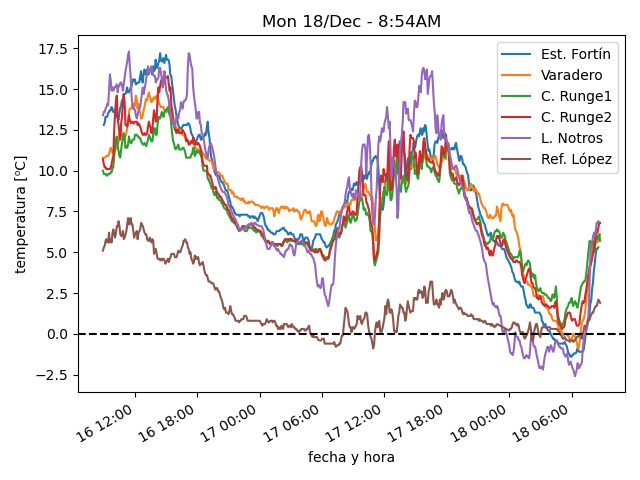
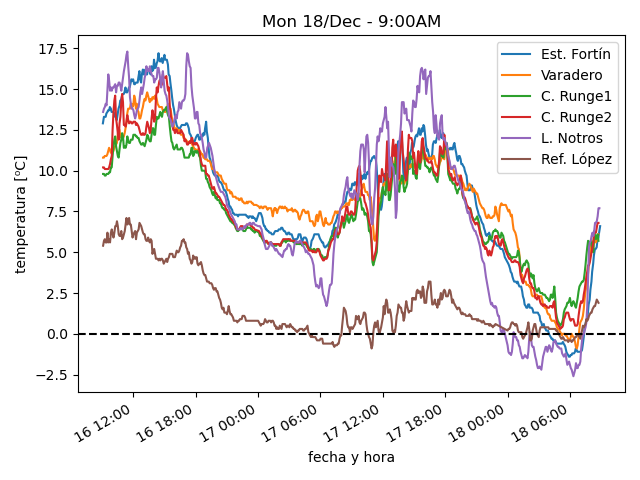
actualiza datos

diff --git a/estaciones/estacion1.html b/estaciones/estacion1.html
@@ -18,22 +18,22 @@
     </tr>
     <tr>
      <td class="stats_data">
-      8:34AM
+      8:54AM
      </td>
     </tr>
     <tr>
      <td class="stats_data">
-      5.3
+      6.6
      </td>
     </tr>
     <tr>
      <td class="stats_data">
-      0.1
+      0.8
      </td>
     </tr>
     <tr>
      <td class="stats_data">
-      69.3
+      66.7
      </td>
     </tr>
     <tr>
@@ -43,7 +43,7 @@
     </tr>
     <tr>
      <td class="stats_data">
-      2.0/5.4 SW
+      3.7/7.0 SSE
      </td>
     </tr>
     <tr>
@@ -53,12 +53,12 @@
     </tr>
     <tr>
      <td class="stats_data">
-      1.0
+      1.3
      </td>
     </tr>
     <tr>
      <td class="stats_data">
-      413.0
+      482.0
      </td>
     </tr>
    </tbody>

diff --git a/estaciones/estacion5.html b/estaciones/estacion5.html
@@ -18,12 +18,12 @@
     </tr>
     <tr>
      <td class="stats_data">
-      8:35AM
+      8:50AM
      </td>
     </tr>
     <tr>
      <td class="stats_data">
-      6.9
+      7.7
      </td>
     </tr>
     <tr>
@@ -33,12 +33,12 @@
     </tr>
     <tr>
      <td class="stats_data">
-      64.0
+      60.0
      </td>
     </tr>
     <tr>
      <td class="stats_data">
-      1026.01
+      1025.77
      </td>
     </tr>
     <tr>
